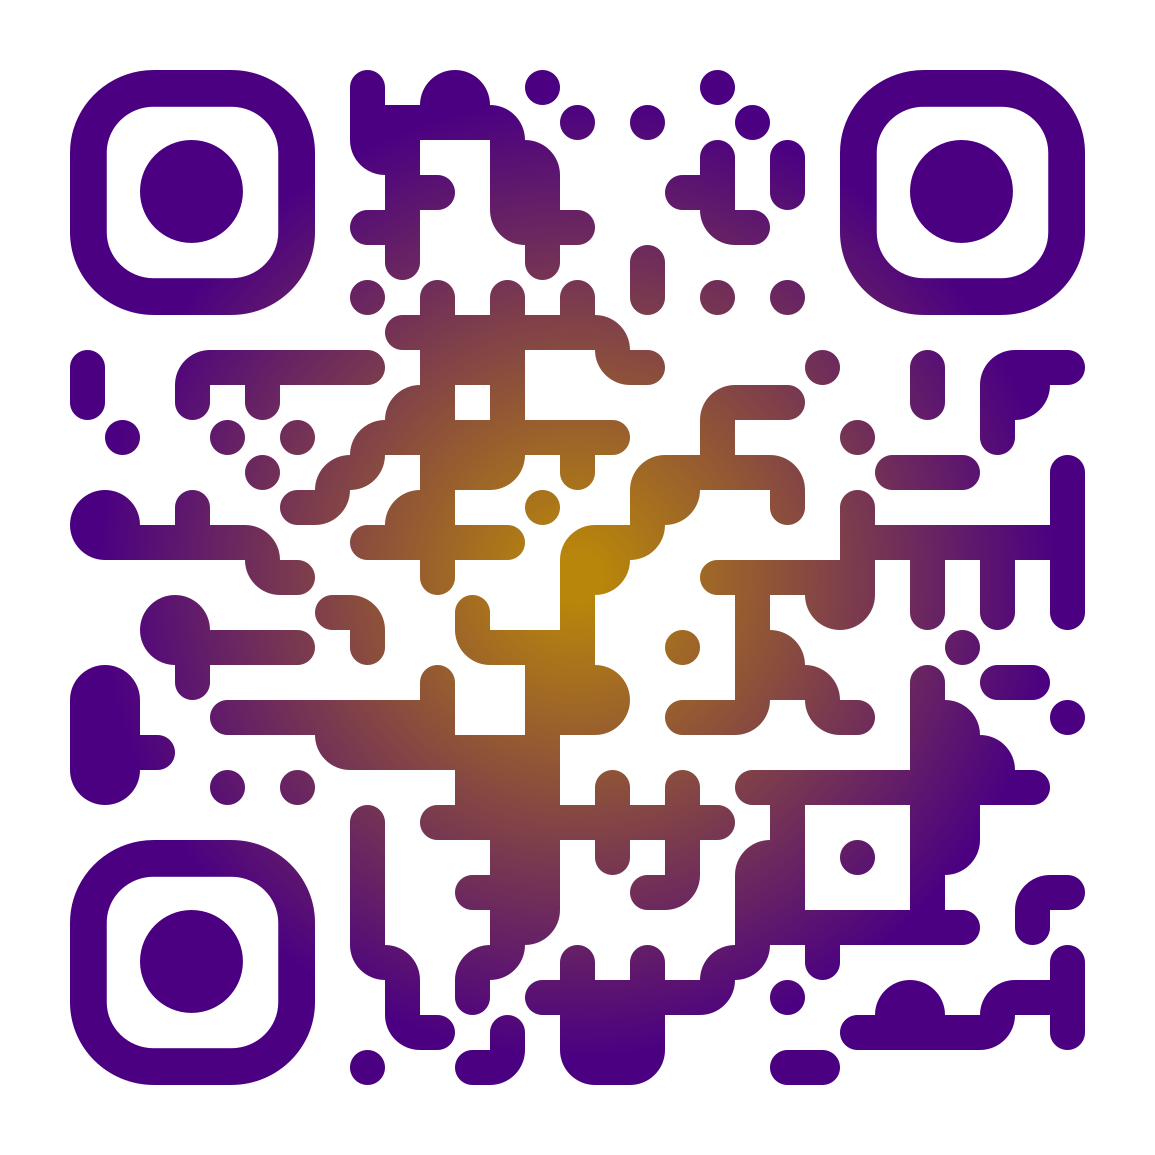
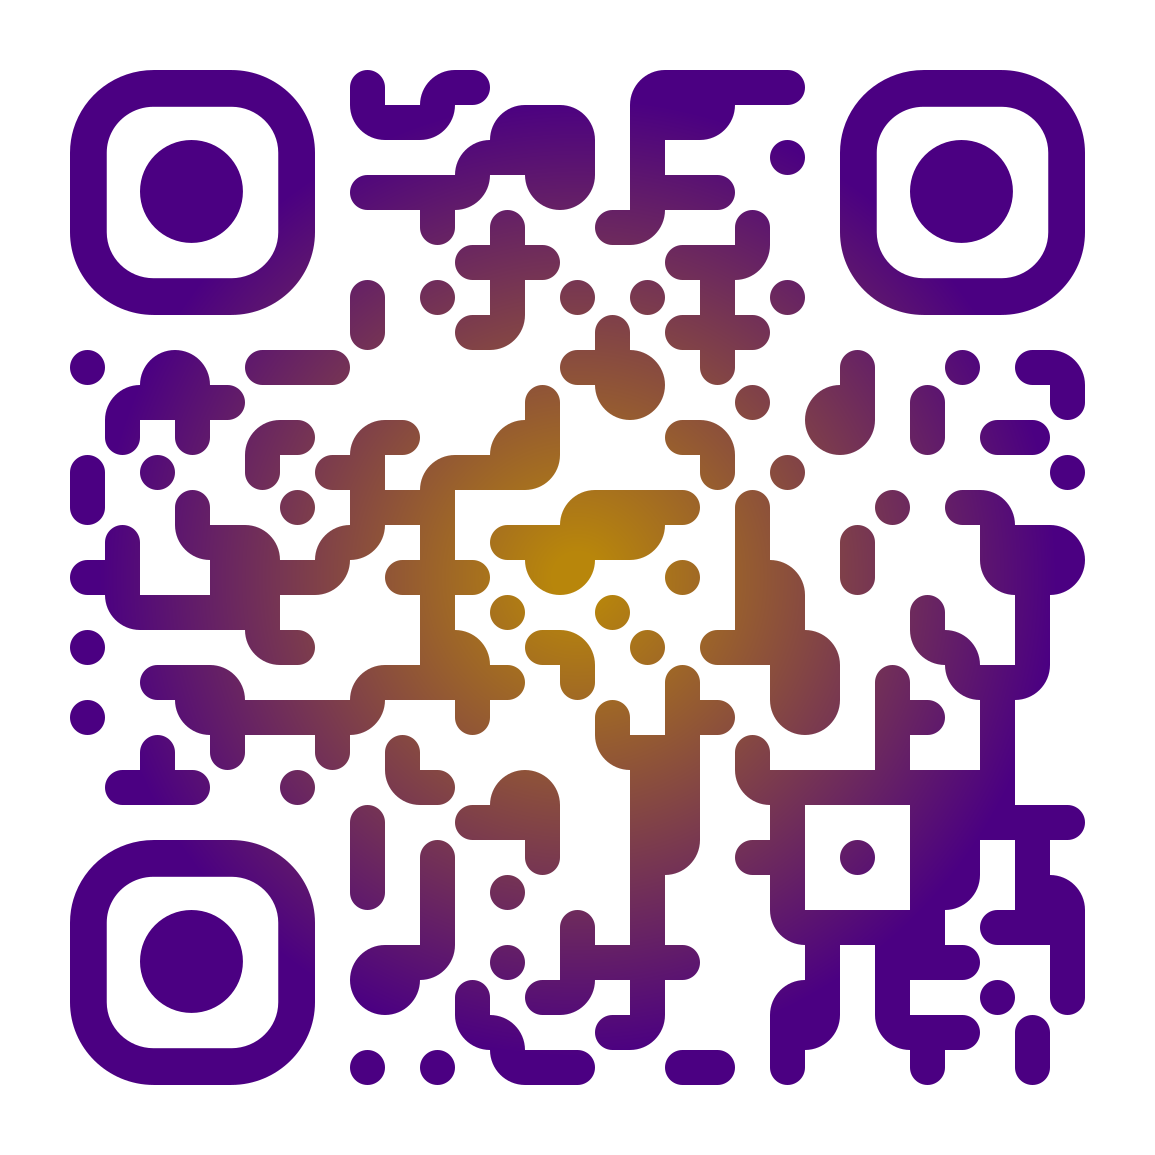
location change

Changed region(s): [[0.0623, 0.0623, 0.9662, 0.9662], [0.9039, 0.4052, 0.9662, 0.4675]]

diff --git a/index-my.html b/index-my.html
@@ -103,15 +103,14 @@
                                 September 2025</p>
                             <p class="mb-2"><i class="fas fa-clock"></i> 9:00
                                 PG</p>
-                            <p class="mb-2"><i class="fas fa-mosque"></i> Masjid
-                                Bayan Baru</p>
+                            <p class="mb-2"><i class="fas fa-mosque"></i> Masjid Daerah Seberang Perai Selatan</p>
                             <div class="qr-code-container mt-3">
                                 <div class="islamic-pattern-border">
                                     <div class="qr-placeholder">
                                         <p>Imbas atau Klik untuk Lokasi</p>
                                         <!-- Add your QR code image here -->
                                         <a
-                                            href="https://maps.app.goo.gl/kyCVwCpSHkXNkQmPA"
+                                            href="https://maps.app.goo.gl/Ukj8ADyfQtKycqnL9"
                                             target="_blank">
                                             <img
                                                 src="assets/images/qr-nikah.png"
@@ -122,7 +121,7 @@
                                 </div>
                             </div>
                             <iframe class="map-iframe"
-                                src="https://www.google.com/maps/embed?pb=!1m18!1m12!1m3!1d3973.022744918365!2d100.46295037498304!3d5.259094594718919!2m3!1f0!2f0!3f0!3m2!1i1024!2i768!4f13.1!3m3!1m2!1s0x304ab71075472263%3A0xc8fbabbaa4f0f515!2sBIZMILLA%20Wedding%20Centre%20%40%20Simpang%20Ampat!5e0!3m2!1sen!2smy!4v1751336881825!5m2!1sen!2smy"
+                                src="https://www.google.com/maps/embed?pb=!1m18!1m12!1m3!1d63568.7448498303!2d100.42203784937294!3d5.2553631989225496!2m3!1f0!2f0!3f0!3m2!1i1024!2i768!4f13.1!3m3!1m2!1s0x304ab11bf157e789%3A0x5fd8980b9eba7c68!2sMasjid%20Seberang%20Perai%20Selatan!5e0!3m2!1sen!2smy!4v1752074704163!5m2!1sen!2smy"
                                 allowfullscreen loading="lazy"
                                 referrerpolicy="no-referrer-when-downgrade"></iframe>
                         </div>

diff --git a/index.html b/index.html
@@ -94,21 +94,20 @@
                             September 2025</p>
                         <p class="mb-2"><i class="fas fa-clock"></i> 9:00
                             AM</p>
-                        <p class="mb-2"><i class="fas fa-mosque"></i> Masjid
-                            Bayan Baru</p>
+                        <p class="mb-2"><i class="fas fa-mosque"></i> Masjid Daerah Seberang Perai Selatan</p>
                         <div class="qr-code-container mt-3">
                             <div class="islamic-pattern-border">
                                 <div class="qr-placeholder">
                                     <p>Scan or Click for Location</p>
                                     <!-- Add your QR code image here -->
-                                    <a href="https://maps.app.goo.gl/kyCVwCpSHkXNkQmPA" target="_blank">
+                                    <a href="https://maps.app.goo.gl/Ukj8ADyfQtKycqnL9" target="_blank">
                                         <img src="assets/images/qr-nikah.png" alt="Location QR Code" class="qr-image">
                                     </a>
                                 </div>
                             </div>
                         </div>
                         <iframe class="map-iframe"
-                            src="https://www.google.com/maps/embed?pb=!1m18!1m12!1m3!1d3973.022744918365!2d100.46295037498304!3d5.259094594718919!2m3!1f0!2f0!3f0!3m2!1i1024!2i768!4f13.1!3m3!1m2!1s0x304ab71075472263%3A0xc8fbabbaa4f0f515!2sBIZMILLA%20Wedding%20Centre%20%40%20Simpang%20Ampat!5e0!3m2!1sen!2smy!4v1751336881825!5m2!1sen!2smy"
+                            src="https://www.google.com/maps/embed?pb=!1m18!1m12!1m3!1d63568.7448498303!2d100.42203784937294!3d5.2553631989225496!2m3!1f0!2f0!3f0!3m2!1i1024!2i768!4f13.1!3m3!1m2!1s0x304ab11bf157e789%3A0x5fd8980b9eba7c68!2sMasjid%20Seberang%20Perai%20Selatan!5e0!3m2!1sen!2smy!4v1752074704163!5m2!1sen!2smy"
                             loading="lazy"
                             referrerpolicy="no-referrer-when-downgrade"></iframe>
                     </div>
